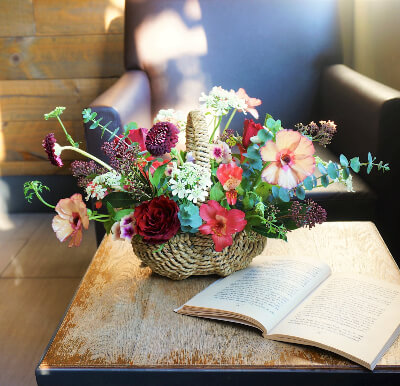
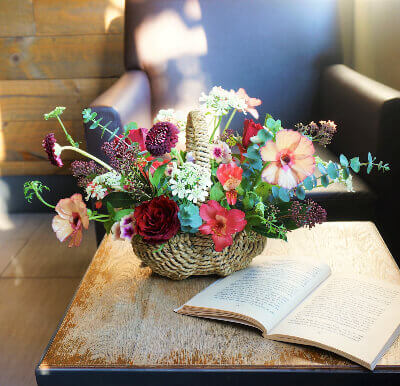
course改圖

diff --git a/course.html b/course.html
@@ -90,32 +90,32 @@
         <div class="course_block" data-aos="custom">
           <div class="course_item">
             <a href="course_page.html">
-              <img class="first" src="./img/3_course/course_1.png" alt="珍藏的心意">
-              <img class="second" src="./img/3_course/course_1-2.png" alt="美好如妳">
+              <img class="first" src="./img/3_course/course_1.jpg" alt="珍藏的心意">
+              <img class="second" src="./img/3_course/course_1-2.jpg" alt="美好如妳">
               <p>珍藏的心意</p>
             </a>
           </div>
 
           <div class="course_item">
             <a href="course_page.html">
-              <img class="first" src="./img/3_course/course_2.png" alt="美好如妳">
-              <img class="second" src="./img/3_course/course_2-2.png" alt="美好如妳">
+              <img class="first" src="./img/3_course/course_2.jpg" alt="美好如妳">
+              <img class="second" src="./img/3_course/course_2-2.jpg" alt="美好如妳">
               <p>美好如妳</p>
             </a>
           </div>
 
           <div class="course_item">
             <a href="course_page.html">
-              <img class="first" src="./img/3_course/course_3.png" alt="柔情似水的思念">
-              <img class="second" src="./img/3_course/course_3-2.png" alt="柔情似水的思念">
+              <img class="first" src="./img/3_course/course_3.jpg" alt="柔情似水的思念">
+              <img class="second" src="./img/3_course/course_3-2.jpg" alt="柔情似水的思念">
               <p>柔情似水的思念</p>
             </a>
           </div>
 
           <div class="course_item">
             <a href="course_page.html">
-              <img class="first" src="./img/3_course/course_4.png" alt="心上的溫度">
-              <img class="second" src="./img/3_course/course_4-2.png" alt="心上的溫度">
+              <img class="first" src="./img/3_course/course_4.jpg" alt="心上的溫度">
+              <img class="second" src="./img/3_course/course_4-2.jpg" alt="心上的溫度">
               <p>心上的溫度</p>
             </a>
           </div>
